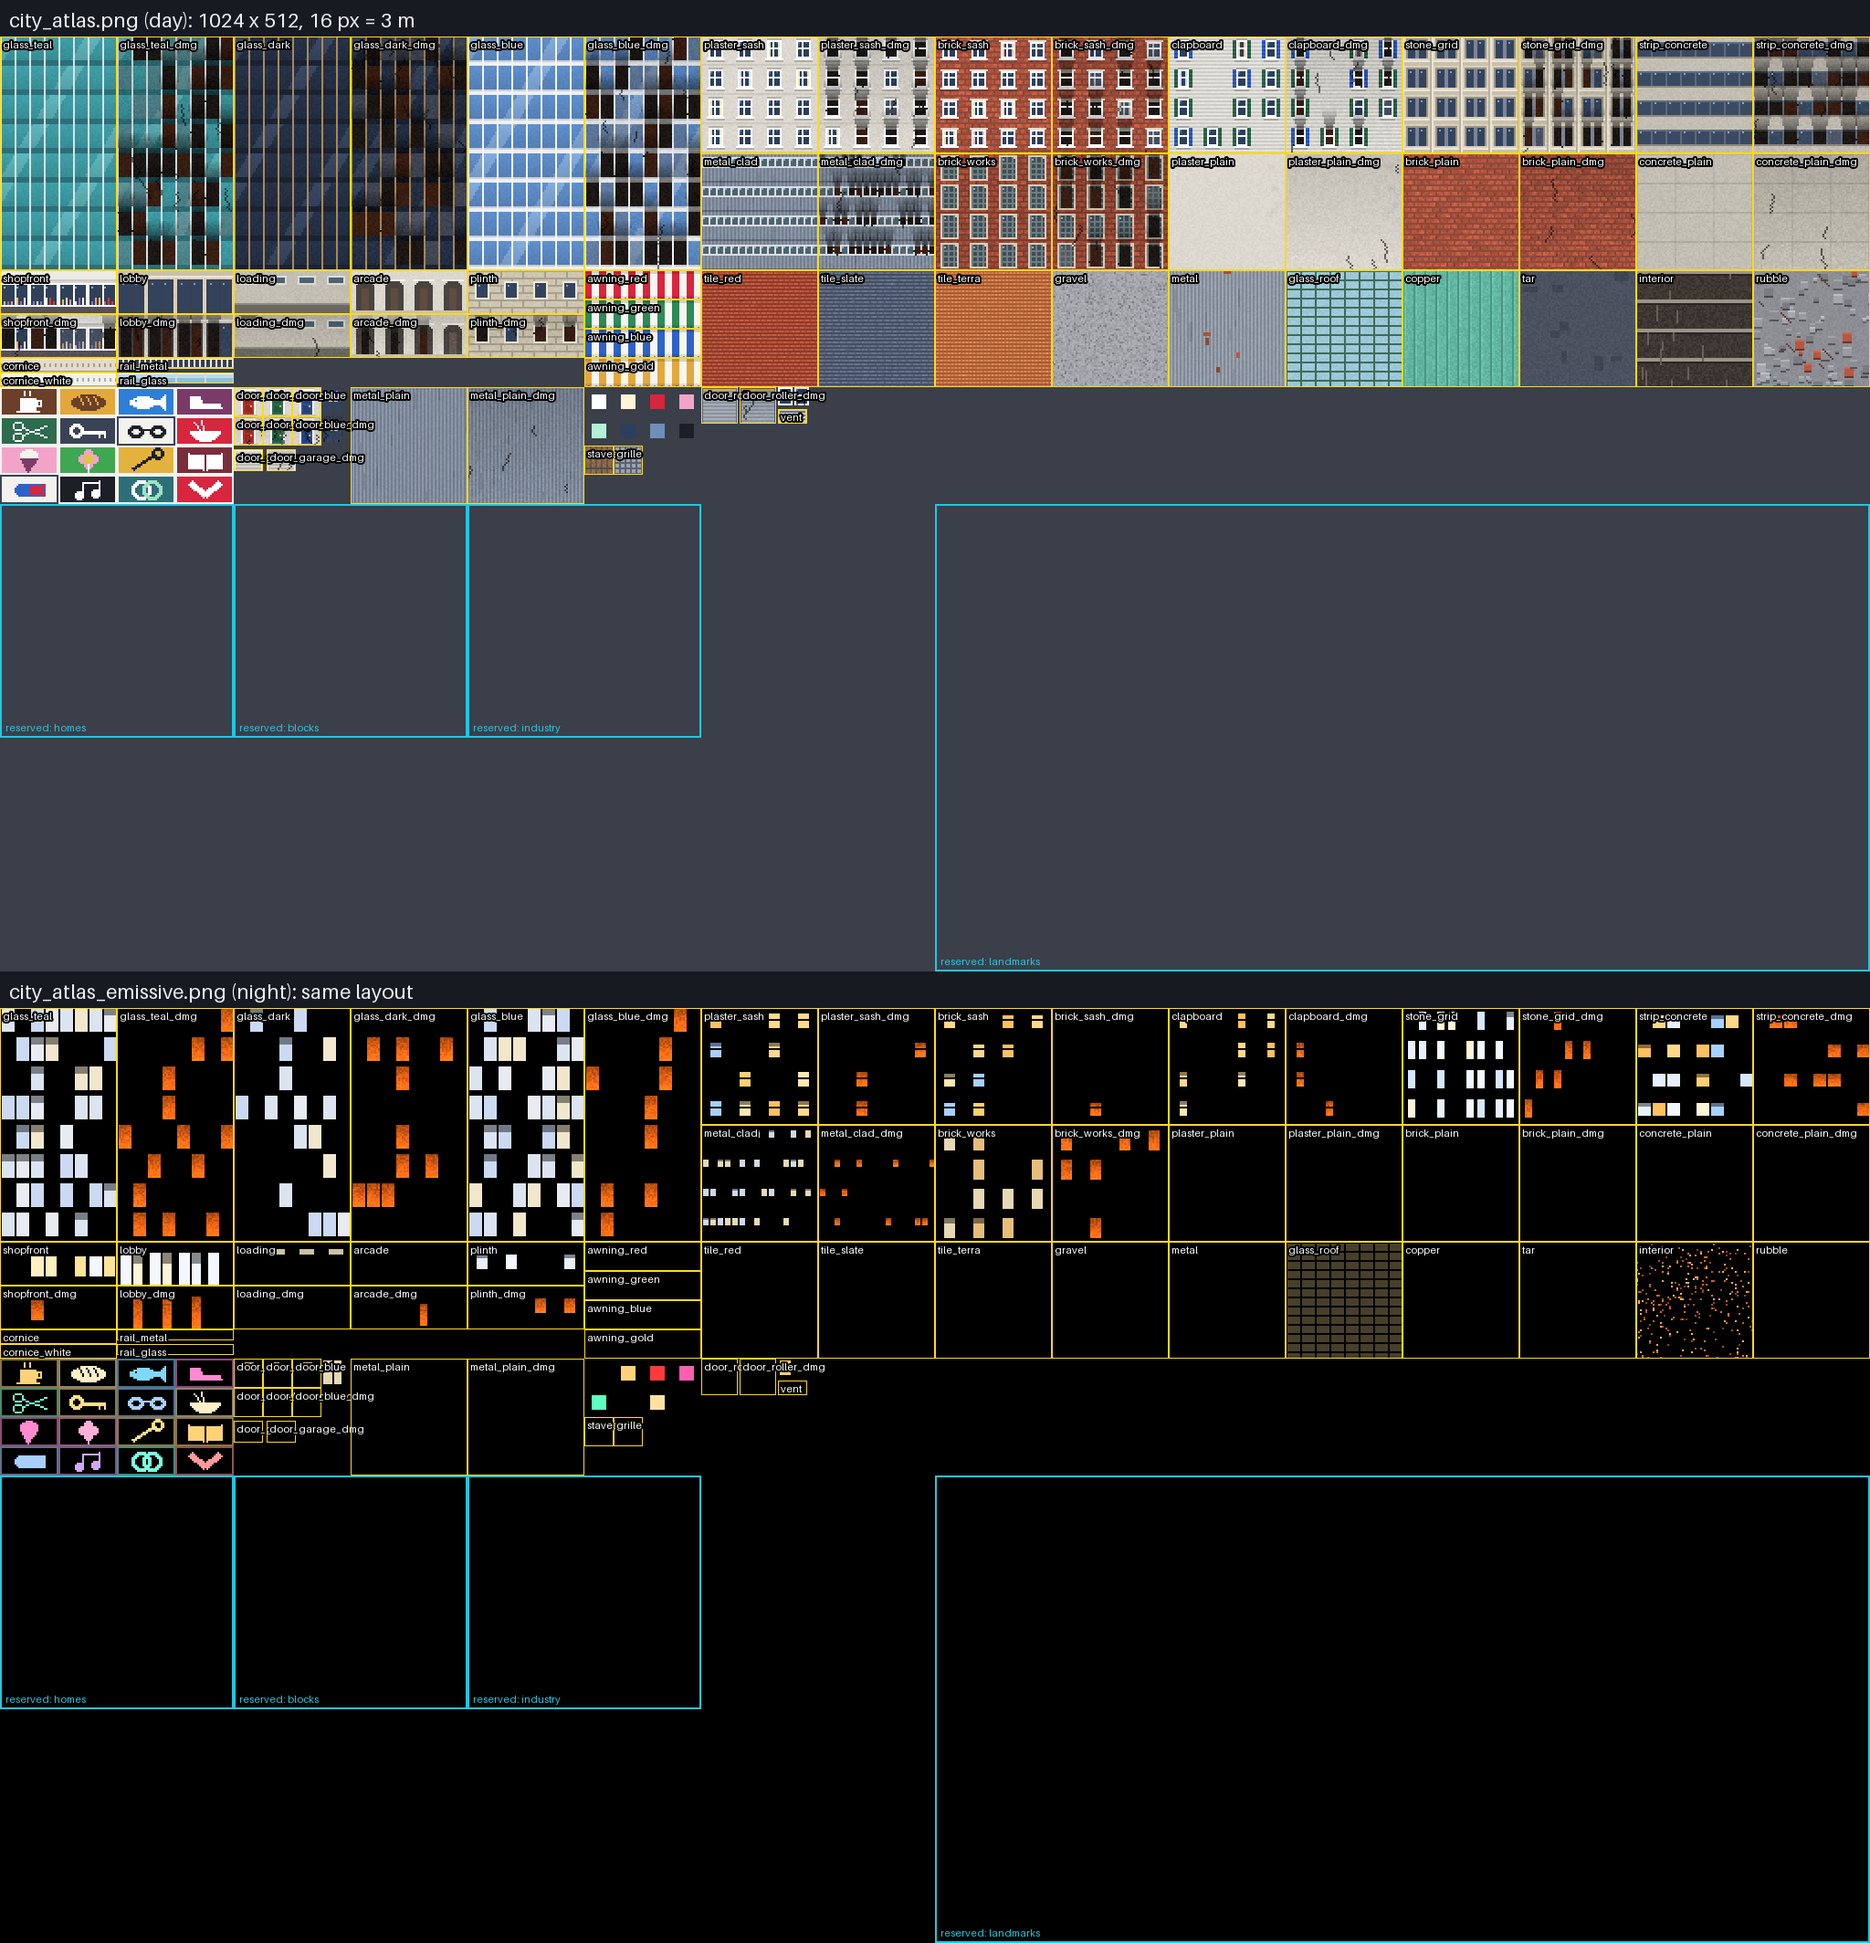
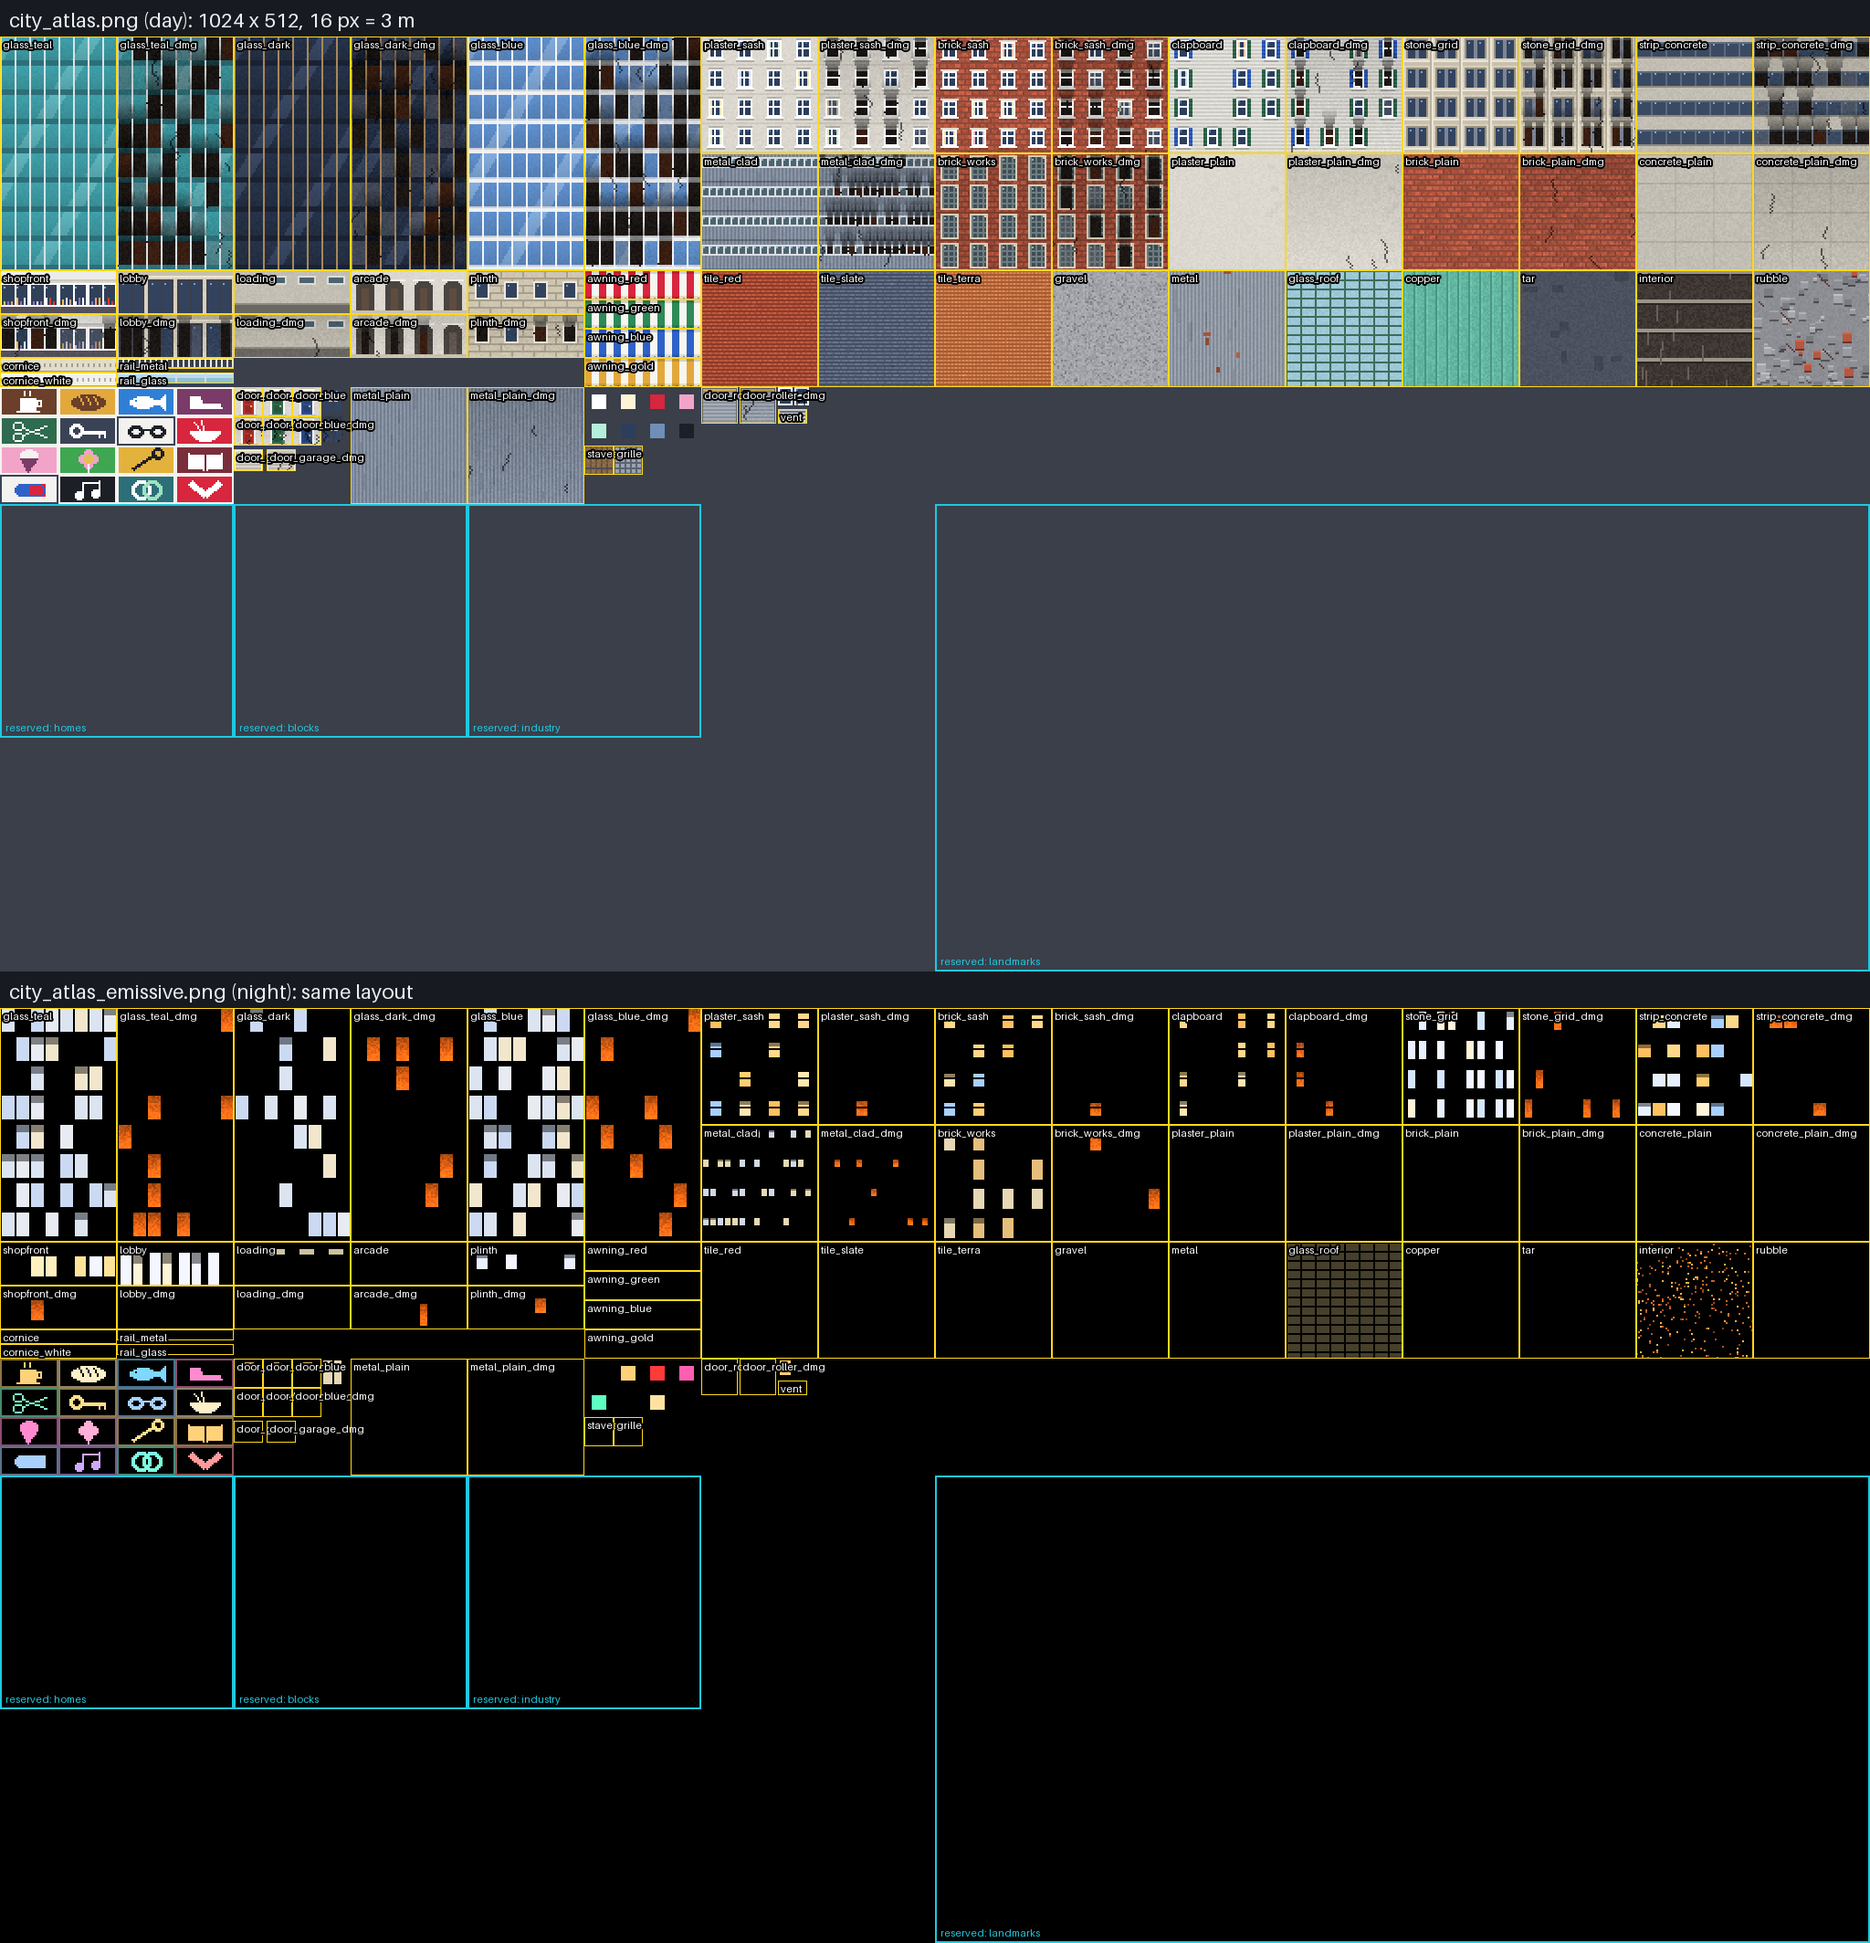
Work in progress: in-flight edits from running teams
Claude-Session: https://claude.ai/code/session_01VjfEy3EmCEkVtKXyYyWoKb

diff --git a/tools/art/city/atlas.py b/tools/art/city/atlas.py
@@ -943,7 +943,7 @@ def damage(src: Region, dst: Region, cv: Canvas, win: Windows | None, rng) -> No
                     yy, xx = ys[k] + rng.integers(-1, 2), xs[k] + rng.integers(-1, 2)
                     if 0 <= yy < hgt and 0 <= xx < wid:
                         c[yy, xx] = hole
-                if rng.random() < 0.3:                             # fire inside
+                if rng.random() < 0.15:                            # fire inside
                     rows = ys.max() - ys.min() + 1
                     for yy, xx in zip(ys, xs):
                         t = (yy - ys.min()) / max(rows - 1, 1)

diff --git a/docs/STATUS.md b/docs/STATUS.md
@@ -874,15 +874,14 @@ read off the result). dBFS is decibels relative to full scale; 0 is where sound 
   audio. The humans' orders (`nerve.break`, `kaiju.special`) are loaded before the match, go
   first, cut in on chatter, and are dropped after waiting 1.5 s. The chair's line is held
   back: `MatchAudio` starts `hearing` 12.5 s after the match ends and says the line at 15 s
-  (the end screen's own start of `hearing` at 14 s is then a no-op; `takeHearing()` is there
-  if the end screen is ever to do it). Clearing the voice stops the line being spoken.
+  (the end screen no longer starts it itself; `takeHearing()` is there if the end screen is
+  ever to say the line). Clearing the voice stops the line being spoken.
 - **What should sound now is read from the frame.** The beam, the heartbeat, the charging tone
   (`laser_charge_loop`, rising with the charge, then `volley_ready`) and the stage music follow
   the frame state, so a missed event (a reconnection) leaves nothing stuck. An event handed
   out more than a second after it happened, or while `MatchSession.catchingUp` is set, makes
   no one-shot sound and no radio line. A hidden page pauses the sound altogether.
-- **Not done:** the Tier 2 unit sounds (no such units yet); `MusicEntry` in
-  `client/src/assets/manifest.ts` does not declare `mark` (the engine reads it all the same).
+- **Not done:** the Tier 2 unit sounds (no such units yet).
 
 ## 8. Integration pass (the whole thing run together)
 
